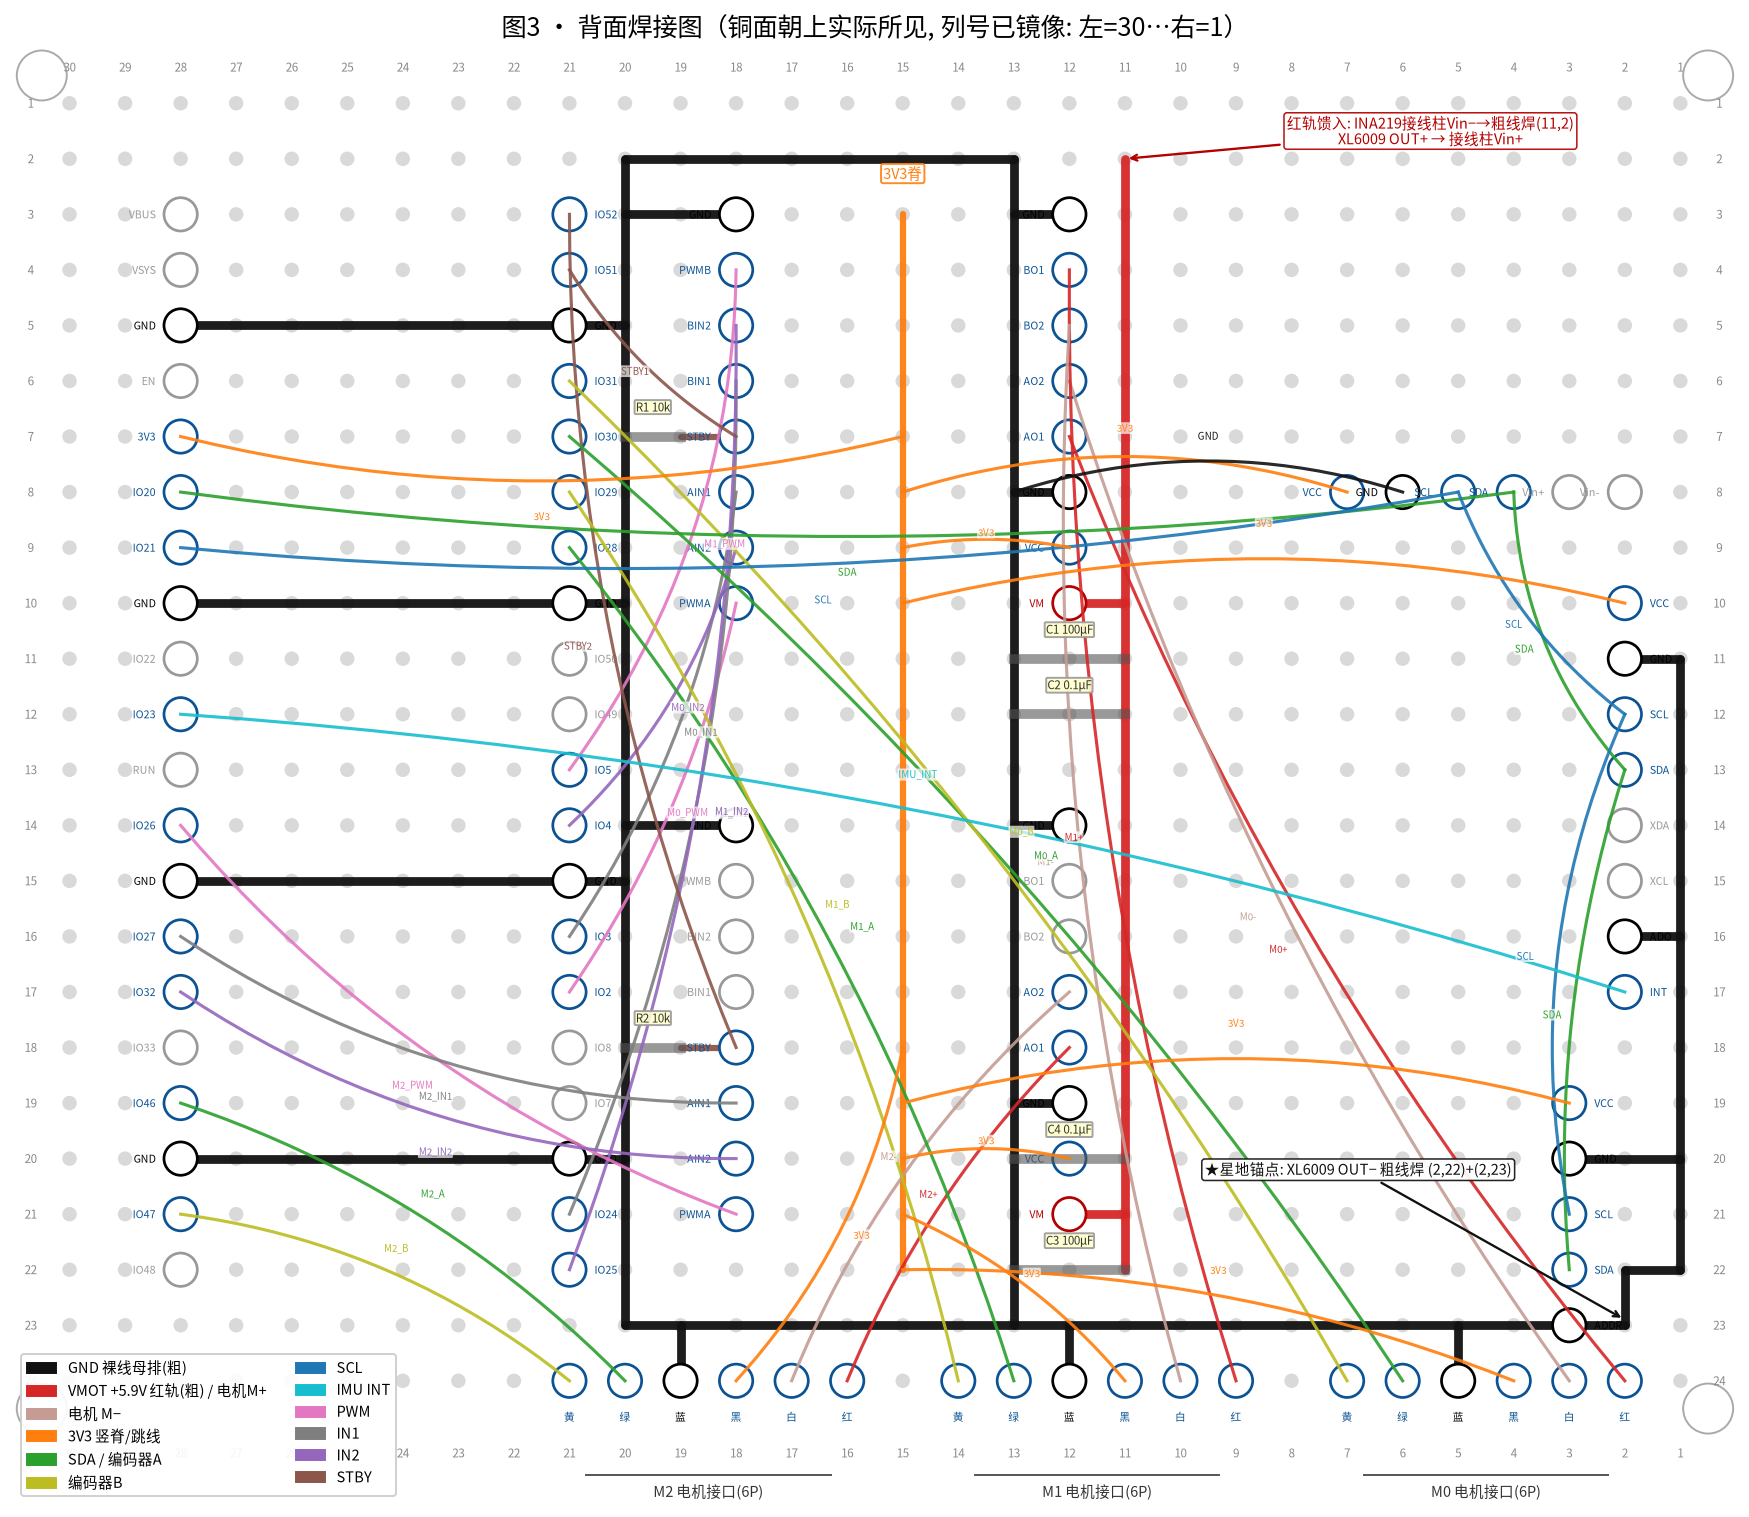
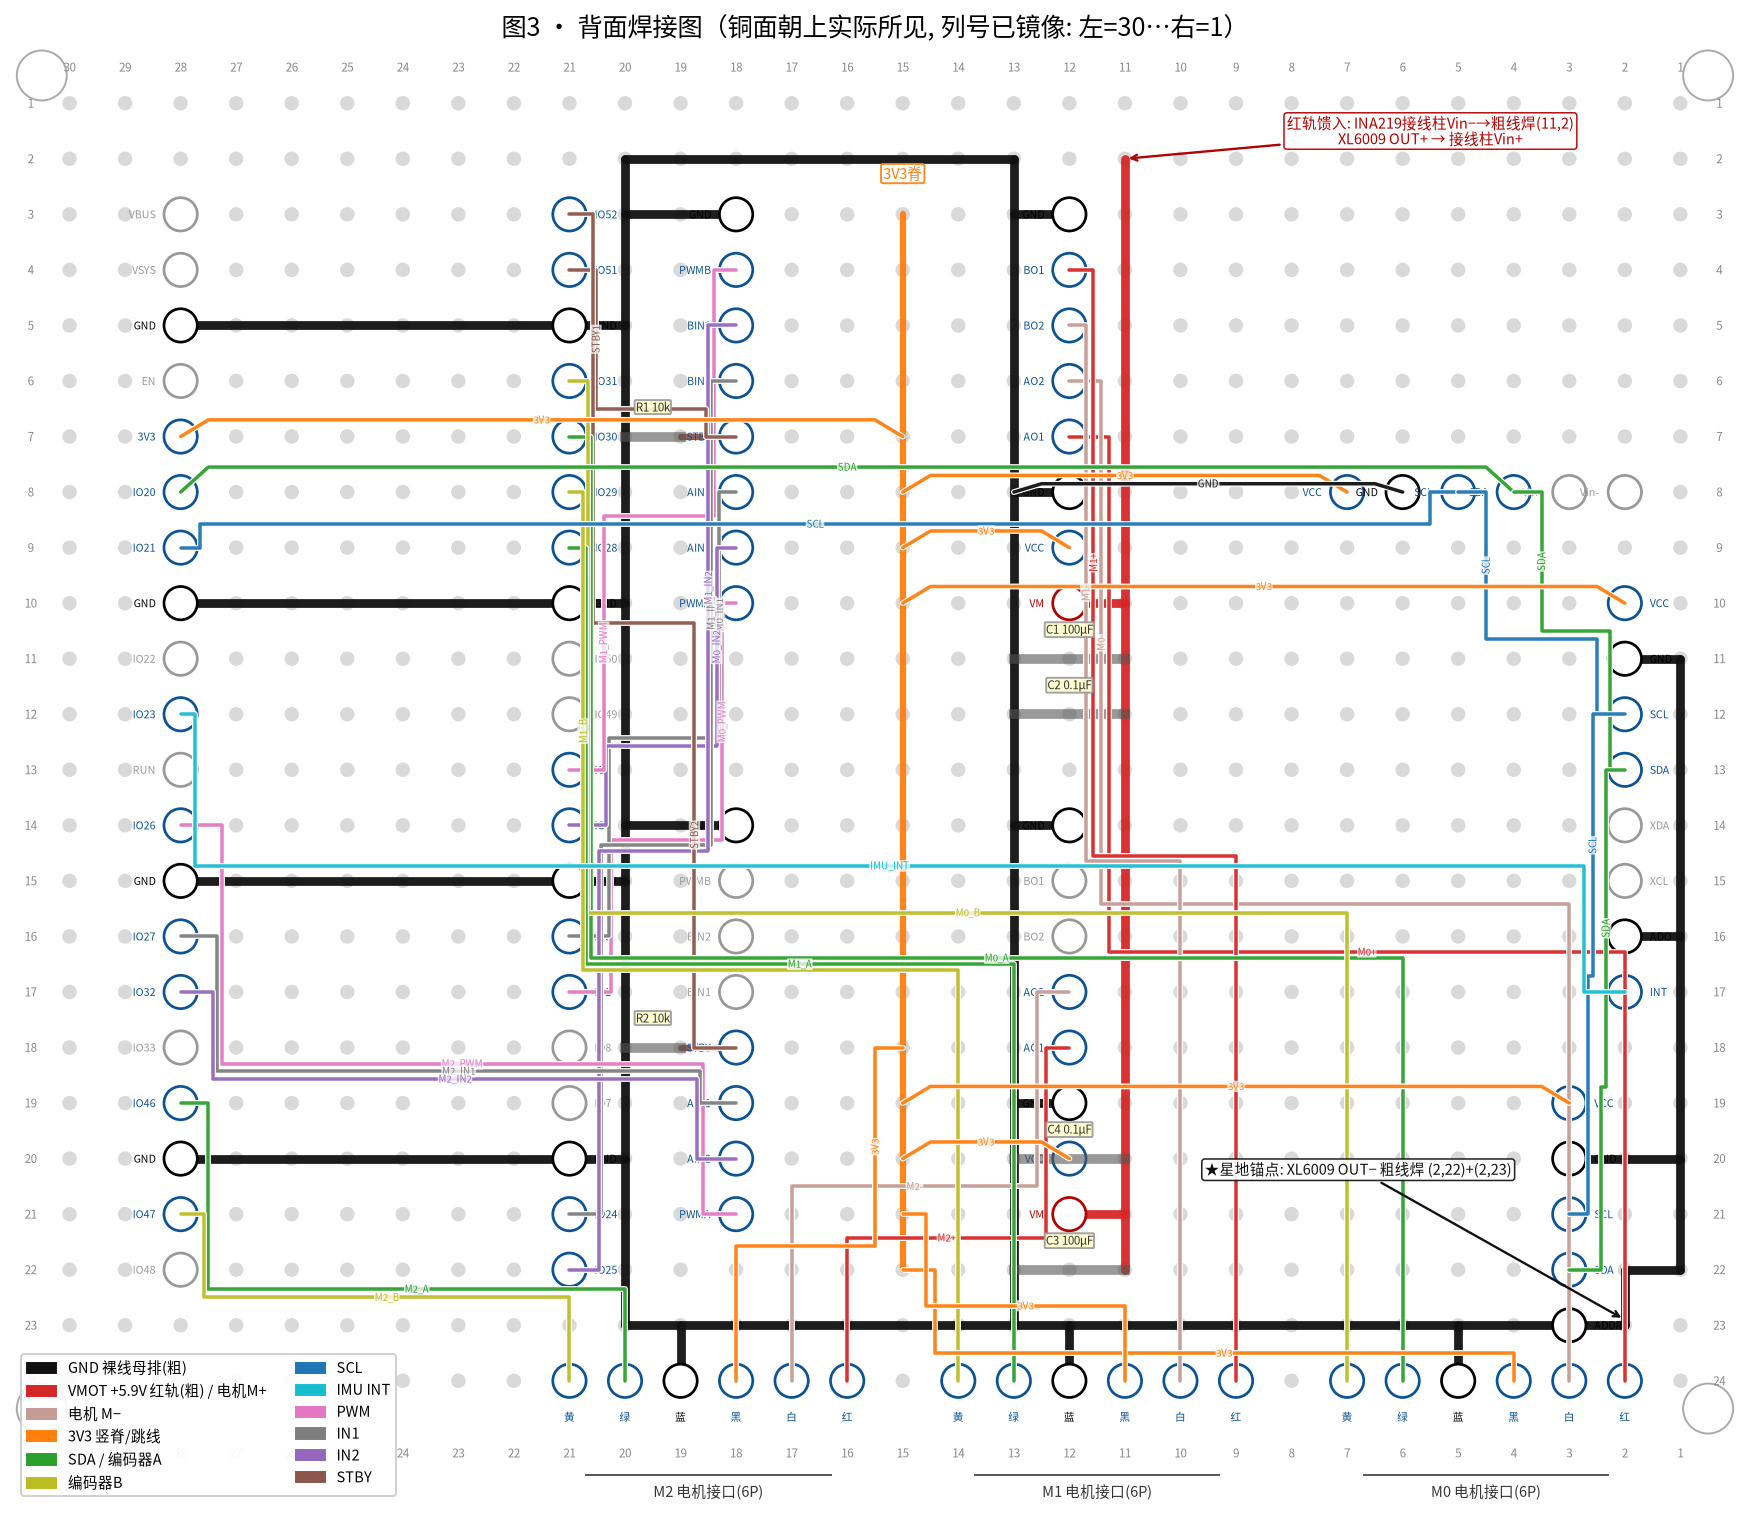
perfboard: 跳线全部改曼哈顿直角贴板走线 — 可直接照焊
- 40根导线由通道布线器生成确定路径: 出脚→孔间缝→直角走缝→入脚, 平行线自动分车道成线束
- 接线表新增逐线拐点坐标列(规范.5缝坐标), 图/表同源
- 图上按 PCB 走线风格渲染(白描边+直角圆弧拐角), 取代原点对点弧线

diff --git a/perfboard/layout.py b/perfboard/layout.py
@@ -199,6 +199,65 @@ JUMP = [  # (net, from, to, 建议线色)
     ("IMU_INT", (2, 17), (28, 12), "蓝白"),
 ]
 
+# ---------------- 跳线曼哈顿布线(直角贴板走线, 电工整线手法) ----------------
+# 每根线: 出脚 → 孔间缝(±0.5) → 直角走缝 → 入脚。所有段横平竖直。
+def _route_one(S, E):
+    (sc, sr), (ec, er) = S, E
+    if sc == ec:                        # 同列: 走西侧缝
+        x = sc - 0.5
+        return [[sc, sr], [x, sr], [x, er], [ec, er]]
+    sgn = 1 if ec > sc else -1
+    if sr == er:                        # 同行: 中段贴行走(车道分配会让开焊盘)
+        return [[sc, sr], [sc + 0.5 * sgn, sr], [ec - 0.5 * sgn, sr], [ec, er]]
+    x1, x2 = sc + 0.5 * sgn, ec - 0.5 * sgn
+    ch = round((sr + er) / 2) + 0.5     # 中间横缝
+    pts = [[sc, sr]]
+    if sr == 24:                        # 底边接口垂直出线
+        pts += [[sc, ch]]
+    else:
+        pts += [[x1, sr], [x1, ch]]
+    if er == 24:
+        pts += [[ec, ch], [ec, er]]
+    else:
+        pts += [[x2, ch], [x2, er], [ec, er]]
+    return pts
+
+
+def build_routes():
+    """内部段按通道分车道: 平行线错开 0.15 孔距, 整数线基础偏移 -0.3 让开焊盘。
+    返回 (画图路径-带车道偏移, 规范路径-纯 .5 缝坐标供接线表)。"""
+    paths = [_route_one(a, b) for _, a, b, _ in JUMP]
+    canon = []
+    for pts in paths:
+        cp = []
+        for p in pts:
+            if not cp or tuple(p) != tuple(cp[-1]):
+                cp.append(tuple(p))
+        canon.append(cp)
+    chan = defaultdict(list)            # (H/V, 坐标) -> [(wire, seg)]
+    for wi, pts in enumerate(paths):
+        for si in range(1, len(pts) - 2):   # 只动内部段, 两端引脚不动
+            a, b = pts[si], pts[si + 1]
+            if a[1] == b[1]:
+                chan[("H", a[1])].append((wi, si))
+            elif a[0] == b[0]:
+                chan[("V", a[0])].append((wi, si))
+    for (kind, coord), members in chan.items():
+        n = len(members)
+        base = -0.30 if abs(coord - round(coord)) < 0.25 else 0.0
+        step = min(0.55 / n, 0.15) if n > 1 else 0.0
+        for k, (wi, si) in enumerate(members):
+            d = base + (k - (n - 1) / 2) * step
+            a, b = paths[wi][si], paths[wi][si + 1]
+            if kind == "H":
+                a[1] += d; b[1] += d
+            else:
+                a[0] += d; b[0] += d
+    return [[(x, y) for x, y in pts] for pts in paths], canon
+
+
+ROUTES, ROUTES_CANON = build_routes()
+
 # ---------------- 模块外形(画图用, top 视角) ----------------
 BODIES = [  # (x0,y0,x1,y1, 名称, 颜色) 单位=孔坐标
     (19.4, 1.9, 29.6, 23.1, "ESP32-P4-WIFI6 开发板(插排母,悬空8.5mm)", "#cde4f5"),
@@ -369,26 +428,29 @@ def render():
             ax.plot([X(c1), X(c2)], [r1, r2], color=NET_COLOR.get(net, "#444"),
                     lw=lw, solid_capstyle="round", zorder=3, alpha=0.95)
 
-    def draw_jump(ax, X, nets=None):
-        import numpy as np
+    def draw_jump(ax, X, nets=None, label=True):
+        import matplotlib.patheffects as pe
         for i, (net, a, b, color) in enumerate(JUMP):
             if nets and net not in nets:
                 continue
-            (c1, r1), (c2, r2) = a, b
-            x1, y1, x2, y2 = X(c1), r1, X(c2), r2
-            mx, my = (x1 + x2) / 2, (y1 + y2) / 2
-            dx, dy = x2 - x1, y2 - y1
-            L = math.hypot(dx, dy) or 1
-            # 垂直偏移做弧线, 弧高封顶防长线乱飞
-            k = min((0.10 + 0.02 * (i % 5)) * L, 1.6)
-            ox, oy = -dy / L * k, dx / L * k
-            t = np.linspace(0, 1, 24)
-            bx = (1 - t) ** 2 * x1 + 2 * (1 - t) * t * (mx + ox) + t ** 2 * x2
-            by = (1 - t) ** 2 * y1 + 2 * (1 - t) * t * (my + oy) + t ** 2 * y2
-            ax.plot(bx, by, color=NET_COLOR.get(net, "#444"), lw=1.6, zorder=6, alpha=0.9)
-            ax.text(mx + ox * 0.9, my + oy * 0.9, net, fontsize=5, color=NET_COLOR.get(net, "#444"),
-                    ha="center", va="center", zorder=7,
-                    bbox=dict(boxstyle="round,pad=0.1", fc="white", ec="none", alpha=0.7))
+            pts = ROUTES[i]
+            xs = [X(c) for c, r in pts]
+            ys = [r for c, r in pts]
+            ax.plot(xs, ys, color=NET_COLOR.get(net, "#444"), lw=1.8, zorder=6,
+                    solid_joinstyle="round", solid_capstyle="round", alpha=0.95,
+                    path_effects=[pe.Stroke(linewidth=3.0, foreground="white"), pe.Normal()])
+            if not label:
+                continue
+            # 标签放最长一段中点
+            best, bl = 0, -1
+            for s in range(len(pts) - 1):
+                L = abs(xs[s + 1] - xs[s]) + abs(ys[s + 1] - ys[s])
+                if L > bl:
+                    best, bl = s, L
+            mx, my = (xs[best] + xs[best + 1]) / 2, (ys[best] + ys[best + 1]) / 2
+            ax.text(mx, my, net, fontsize=5, color=NET_COLOR.get(net, "#444"),
+                    ha="center", va="center", zorder=7, rotation=0 if ys[best] == ys[best + 1] else 90,
+                    bbox=dict(boxstyle="round,pad=0.08", fc="white", ec="none", alpha=0.75))
 
     def draw_comps(ax, X):
         for name, na, ha_, nb, hb, note in COMPONENTS:
@@ -497,11 +559,16 @@ def table():
     lines += ["", "## ③ 元件", "", "| 元件 | A脚 | B脚 | 说明 |", "|---|---|---|---|"]
     for name, na, ha, nb, hb, note in COMPONENTS:
         lines.append(f"| {name} | {ha} ({na}) | {hb} ({nb}) | {note} |")
-    lines += ["", "## ④ 绝缘跳线（焊两端, 长度=曼哈顿距离×2.54×1.3+15mm 余量）", "",
-              "| # | 网络 | 从 | 到 | 建议线色 | 备长 |", "|---|---|---|---|---|---|"]
+    lines += ["", "## ④ 绝缘导线（0.5mm 单芯线, 直角贴板走缝, 只焊两端）", "",
+              "路径 = 拐点序列；坐标 x.5 表示走第 x 与 x+1 列(行)之间的缝。",
+              "同缝多线并排走成线束即可, 不必精确到小数(小数只是画图错位防重叠)。", "",
+              "| # | 网络 | 从 | 到 | 路径(拐点) | 线色 | 备长 |", "|---|---|---|---|---|---|---|"]
     for i, (net, a, b, color) in enumerate(JUMP, 1):
-        L = (abs(a[0] - b[0]) + abs(a[1] - b[1])) * 2.54 * 1.3 + 15
-        lines.append(f"| J{i} | {net} | {a} | {b} | {color} | {L:.0f}mm |")
+        pts = ROUTES_CANON[i - 1]
+        L = sum(abs(pts[s + 1][0] - pts[s][0]) + abs(pts[s + 1][1] - pts[s][1])
+                for s in range(len(pts) - 1)) * 2.54 + 20
+        path = "→".join(f"({p[0]:g},{p[1]:g})" for p in pts)
+        lines.append(f"| J{i} | {net} | {a} | {b} | {path} | {color} | {L:.0f}mm |")
     with open("perfboard/wiring_table.md", "w") as f:
         f.write("\n".join(lines) + "\n")
 

diff --git a/perfboard/wiring_table.md b/perfboard/wiring_table.md
@@ -48,47 +48,50 @@
 | R1 10k | (19, 7) (STBY1) | (20, 7) (GND) | STBY1 下拉(推荐,防上电电机抖) |
 | R2 10k | (19, 18) (STBY2) | (20, 18) (GND) | STBY2 下拉(推荐) |
 
-## ④ 绝缘跳线（焊两端, 长度=曼哈顿距离×2.54×1.3+15mm 余量）
+## ④ 绝缘导线（0.5mm 单芯线, 直角贴板走缝, 只焊两端）
 
-| # | 网络 | 从 | 到 | 建议线色 | 备长 |
-|---|---|---|---|---|---|
-| J1 | M0_PWM | (21, 17) | (18, 10) | 白 | 48mm |
-| J2 | M0_IN1 | (21, 16) | (18, 8) | 灰 | 51mm |
-| J3 | M0_IN2 | (21, 14) | (18, 9) | 紫 | 41mm |
-| J4 | M1_PWM | (21, 13) | (18, 4) | 白 | 55mm |
-| J5 | M1_IN1 | (21, 21) | (18, 6) | 灰 | 74mm |
-| J6 | M1_IN2 | (21, 22) | (18, 5) | 紫 | 81mm |
-| J7 | STBY1 | (21, 4) | (18, 7) | 棕 | 35mm |
-| J8 | M2_PWM | (28, 14) | (18, 21) | 白 | 71mm |
-| J9 | M2_IN1 | (28, 16) | (18, 19) | 灰 | 58mm |
-| J10 | M2_IN2 | (28, 17) | (18, 20) | 紫 | 58mm |
-| J11 | STBY2 | (21, 3) | (18, 18) | 棕 | 74mm |
-| J12 | M0+ | (12, 7) | (2, 24) | 红 | 104mm |
-| J13 | M0- | (12, 6) | (3, 24) | 白 | 104mm |
-| J14 | M1+ | (12, 4) | (9, 24) | 红 | 91mm |
-| J15 | M1- | (12, 5) | (10, 24) | 白 | 84mm |
-| J16 | M2+ | (12, 18) | (16, 24) | 红 | 48mm |
-| J17 | M2- | (12, 17) | (17, 24) | 白 | 55mm |
-| J18 | M0_A | (6, 24) | (21, 7) | 绿 | 121mm |
-| J19 | M0_B | (7, 24) | (21, 6) | 黄 | 121mm |
-| J20 | M1_A | (13, 24) | (21, 9) | 绿 | 91mm |
-| J21 | M1_B | (14, 24) | (21, 8) | 黄 | 91mm |
-| J22 | M2_A | (20, 24) | (28, 19) | 绿 | 58mm |
-| J23 | M2_B | (21, 24) | (28, 21) | 黄 | 48mm |
-| J24 | SDA | (28, 8) | (4, 8) | 绿 | 94mm |
-| J25 | SDA | (4, 8) | (2, 13) | 绿 | 38mm |
-| J26 | SDA | (2, 13) | (3, 22) | 绿 | 48mm |
-| J27 | SCL | (28, 9) | (5, 8) | 蓝 | 94mm |
-| J28 | SCL | (5, 8) | (2, 12) | 蓝 | 38mm |
-| J29 | SCL | (2, 12) | (3, 21) | 蓝 | 48mm |
-| J30 | 3V3 | (28, 7) | (15, 7) | 橙 | 58mm |
-| J31 | 3V3 | (12, 9) | (15, 9) | 橙 | 25mm |
-| J32 | 3V3 | (12, 20) | (15, 20) | 橙 | 25mm |
-| J33 | 3V3 | (2, 10) | (15, 10) | 橙 | 58mm |
-| J34 | 3V3 | (7, 8) | (15, 8) | 橙 | 41mm |
-| J35 | 3V3 | (3, 19) | (15, 19) | 橙 | 55mm |
-| J36 | 3V3 | (4, 24) | (15, 22) | 橙 | 58mm |
-| J37 | 3V3 | (11, 24) | (15, 21) | 橙 | 38mm |
-| J38 | 3V3 | (18, 24) | (15, 18) | 橙 | 45mm |
-| J39 | GND | (6, 8) | (13, 8) | 黑 | 38mm |
-| J40 | IMU_INT | (2, 17) | (28, 12) | 蓝白 | 117mm |
+路径 = 拐点序列；坐标 x.5 表示走第 x 与 x+1 列(行)之间的缝。
+同缝多线并排走成线束即可, 不必精确到小数(小数只是画图错位防重叠)。
+
+| # | 网络 | 从 | 到 | 路径(拐点) | 线色 | 备长 |
+|---|---|---|---|---|---|---|
+| J1 | M0_PWM | (21, 17) | (18, 10) | (21,17)→(20.5,17)→(20.5,14.5)→(18.5,14.5)→(18.5,10)→(18,10) | 白 | 45mm |
+| J2 | M0_IN1 | (21, 16) | (18, 8) | (21,16)→(20.5,16)→(20.5,12.5)→(18.5,12.5)→(18.5,8)→(18,8) | 灰 | 48mm |
+| J3 | M0_IN2 | (21, 14) | (18, 9) | (21,14)→(20.5,14)→(20.5,12.5)→(18.5,12.5)→(18.5,9)→(18,9) | 紫 | 40mm |
+| J4 | M1_PWM | (21, 13) | (18, 4) | (21,13)→(20.5,13)→(20.5,8.5)→(18.5,8.5)→(18.5,4)→(18,4) | 白 | 50mm |
+| J5 | M1_IN1 | (21, 21) | (18, 6) | (21,21)→(20.5,21)→(20.5,14.5)→(18.5,14.5)→(18.5,6)→(18,6) | 灰 | 66mm |
+| J6 | M1_IN2 | (21, 22) | (18, 5) | (21,22)→(20.5,22)→(20.5,14.5)→(18.5,14.5)→(18.5,5)→(18,5) | 紫 | 71mm |
+| J7 | STBY1 | (21, 4) | (18, 7) | (21,4)→(20.5,4)→(20.5,6.5)→(18.5,6.5)→(18.5,7)→(18,7) | 棕 | 35mm |
+| J8 | M2_PWM | (28, 14) | (18, 21) | (28,14)→(27.5,14)→(27.5,18.5)→(18.5,18.5)→(18.5,21)→(18,21) | 白 | 63mm |
+| J9 | M2_IN1 | (28, 16) | (18, 19) | (28,16)→(27.5,16)→(27.5,18.5)→(18.5,18.5)→(18.5,19)→(18,19) | 灰 | 53mm |
+| J10 | M2_IN2 | (28, 17) | (18, 20) | (28,17)→(27.5,17)→(27.5,18.5)→(18.5,18.5)→(18.5,20)→(18,20) | 紫 | 53mm |
+| J11 | STBY2 | (21, 3) | (18, 18) | (21,3)→(20.5,3)→(20.5,10.5)→(18.5,10.5)→(18.5,18)→(18,18) | 棕 | 66mm |
+| J12 | M0+ | (12, 7) | (2, 24) | (12,7)→(11.5,7)→(11.5,16.5)→(2,16.5)→(2,24) | 红 | 89mm |
+| J13 | M0- | (12, 6) | (3, 24) | (12,6)→(11.5,6)→(11.5,15.5)→(3,15.5)→(3,24) | 白 | 89mm |
+| J14 | M1+ | (12, 4) | (9, 24) | (12,4)→(11.5,4)→(11.5,14.5)→(9,14.5)→(9,24) | 红 | 78mm |
+| J15 | M1- | (12, 5) | (10, 24) | (12,5)→(11.5,5)→(11.5,14.5)→(10,14.5)→(10,24) | 白 | 73mm |
+| J16 | M2+ | (12, 18) | (16, 24) | (12,18)→(12.5,18)→(12.5,21.5)→(16,21.5)→(16,24) | 红 | 45mm |
+| J17 | M2- | (12, 17) | (17, 24) | (12,17)→(12.5,17)→(12.5,20.5)→(17,20.5)→(17,24) | 白 | 50mm |
+| J18 | M0_A | (6, 24) | (21, 7) | (6,24)→(6,16.5)→(20.5,16.5)→(20.5,7)→(21,7) | 绿 | 101mm |
+| J19 | M0_B | (7, 24) | (21, 6) | (7,24)→(7,15.5)→(20.5,15.5)→(20.5,6)→(21,6) | 黄 | 101mm |
+| J20 | M1_A | (13, 24) | (21, 9) | (13,24)→(13,16.5)→(20.5,16.5)→(20.5,9)→(21,9) | 绿 | 78mm |
+| J21 | M1_B | (14, 24) | (21, 8) | (14,24)→(14,16.5)→(20.5,16.5)→(20.5,8)→(21,8) | 黄 | 78mm |
+| J22 | M2_A | (20, 24) | (28, 19) | (20,24)→(20,22.5)→(27.5,22.5)→(27.5,19)→(28,19) | 绿 | 53mm |
+| J23 | M2_B | (21, 24) | (28, 21) | (21,24)→(21,22.5)→(27.5,22.5)→(27.5,21)→(28,21) | 黄 | 45mm |
+| J24 | SDA | (28, 8) | (4, 8) | (28,8)→(27.5,8)→(4.5,8)→(4,8) | 绿 | 81mm |
+| J25 | SDA | (4, 8) | (2, 13) | (4,8)→(3.5,8)→(3.5,10.5)→(2.5,10.5)→(2.5,13)→(2,13) | 绿 | 38mm |
+| J26 | SDA | (2, 13) | (3, 22) | (2,13)→(2.5,13)→(2.5,18.5)→(2.5,22)→(3,22) | 绿 | 45mm |
+| J27 | SCL | (28, 9) | (5, 8) | (28,9)→(27.5,9)→(27.5,8.5)→(5.5,8.5)→(5.5,8)→(5,8) | 蓝 | 81mm |
+| J28 | SCL | (5, 8) | (2, 12) | (5,8)→(4.5,8)→(4.5,10.5)→(2.5,10.5)→(2.5,12)→(2,12) | 蓝 | 38mm |
+| J29 | SCL | (2, 12) | (3, 21) | (2,12)→(2.5,12)→(2.5,16.5)→(2.5,21)→(3,21) | 蓝 | 45mm |
+| J30 | 3V3 | (28, 7) | (15, 7) | (28,7)→(27.5,7)→(15.5,7)→(15,7) | 橙 | 53mm |
+| J31 | 3V3 | (12, 9) | (15, 9) | (12,9)→(12.5,9)→(14.5,9)→(15,9) | 橙 | 28mm |
+| J32 | 3V3 | (12, 20) | (15, 20) | (12,20)→(12.5,20)→(14.5,20)→(15,20) | 橙 | 28mm |
+| J33 | 3V3 | (2, 10) | (15, 10) | (2,10)→(2.5,10)→(14.5,10)→(15,10) | 橙 | 53mm |
+| J34 | 3V3 | (7, 8) | (15, 8) | (7,8)→(7.5,8)→(14.5,8)→(15,8) | 橙 | 40mm |
+| J35 | 3V3 | (3, 19) | (15, 19) | (3,19)→(3.5,19)→(14.5,19)→(15,19) | 橙 | 50mm |
+| J36 | 3V3 | (4, 24) | (15, 22) | (4,24)→(4,23.5)→(14.5,23.5)→(14.5,22)→(15,22) | 橙 | 53mm |
+| J37 | 3V3 | (11, 24) | (15, 21) | (11,24)→(11,22.5)→(14.5,22.5)→(14.5,21)→(15,21) | 橙 | 38mm |
+| J38 | 3V3 | (18, 24) | (15, 18) | (18,24)→(18,21.5)→(15.5,21.5)→(15.5,18)→(15,18) | 橙 | 43mm |
+| J39 | GND | (6, 8) | (13, 8) | (6,8)→(6.5,8)→(12.5,8)→(13,8) | 黑 | 38mm |
+| J40 | IMU_INT | (2, 17) | (28, 12) | (2,17)→(2.5,17)→(2.5,14.5)→(27.5,14.5)→(27.5,12)→(28,12) | 蓝白 | 99mm |
